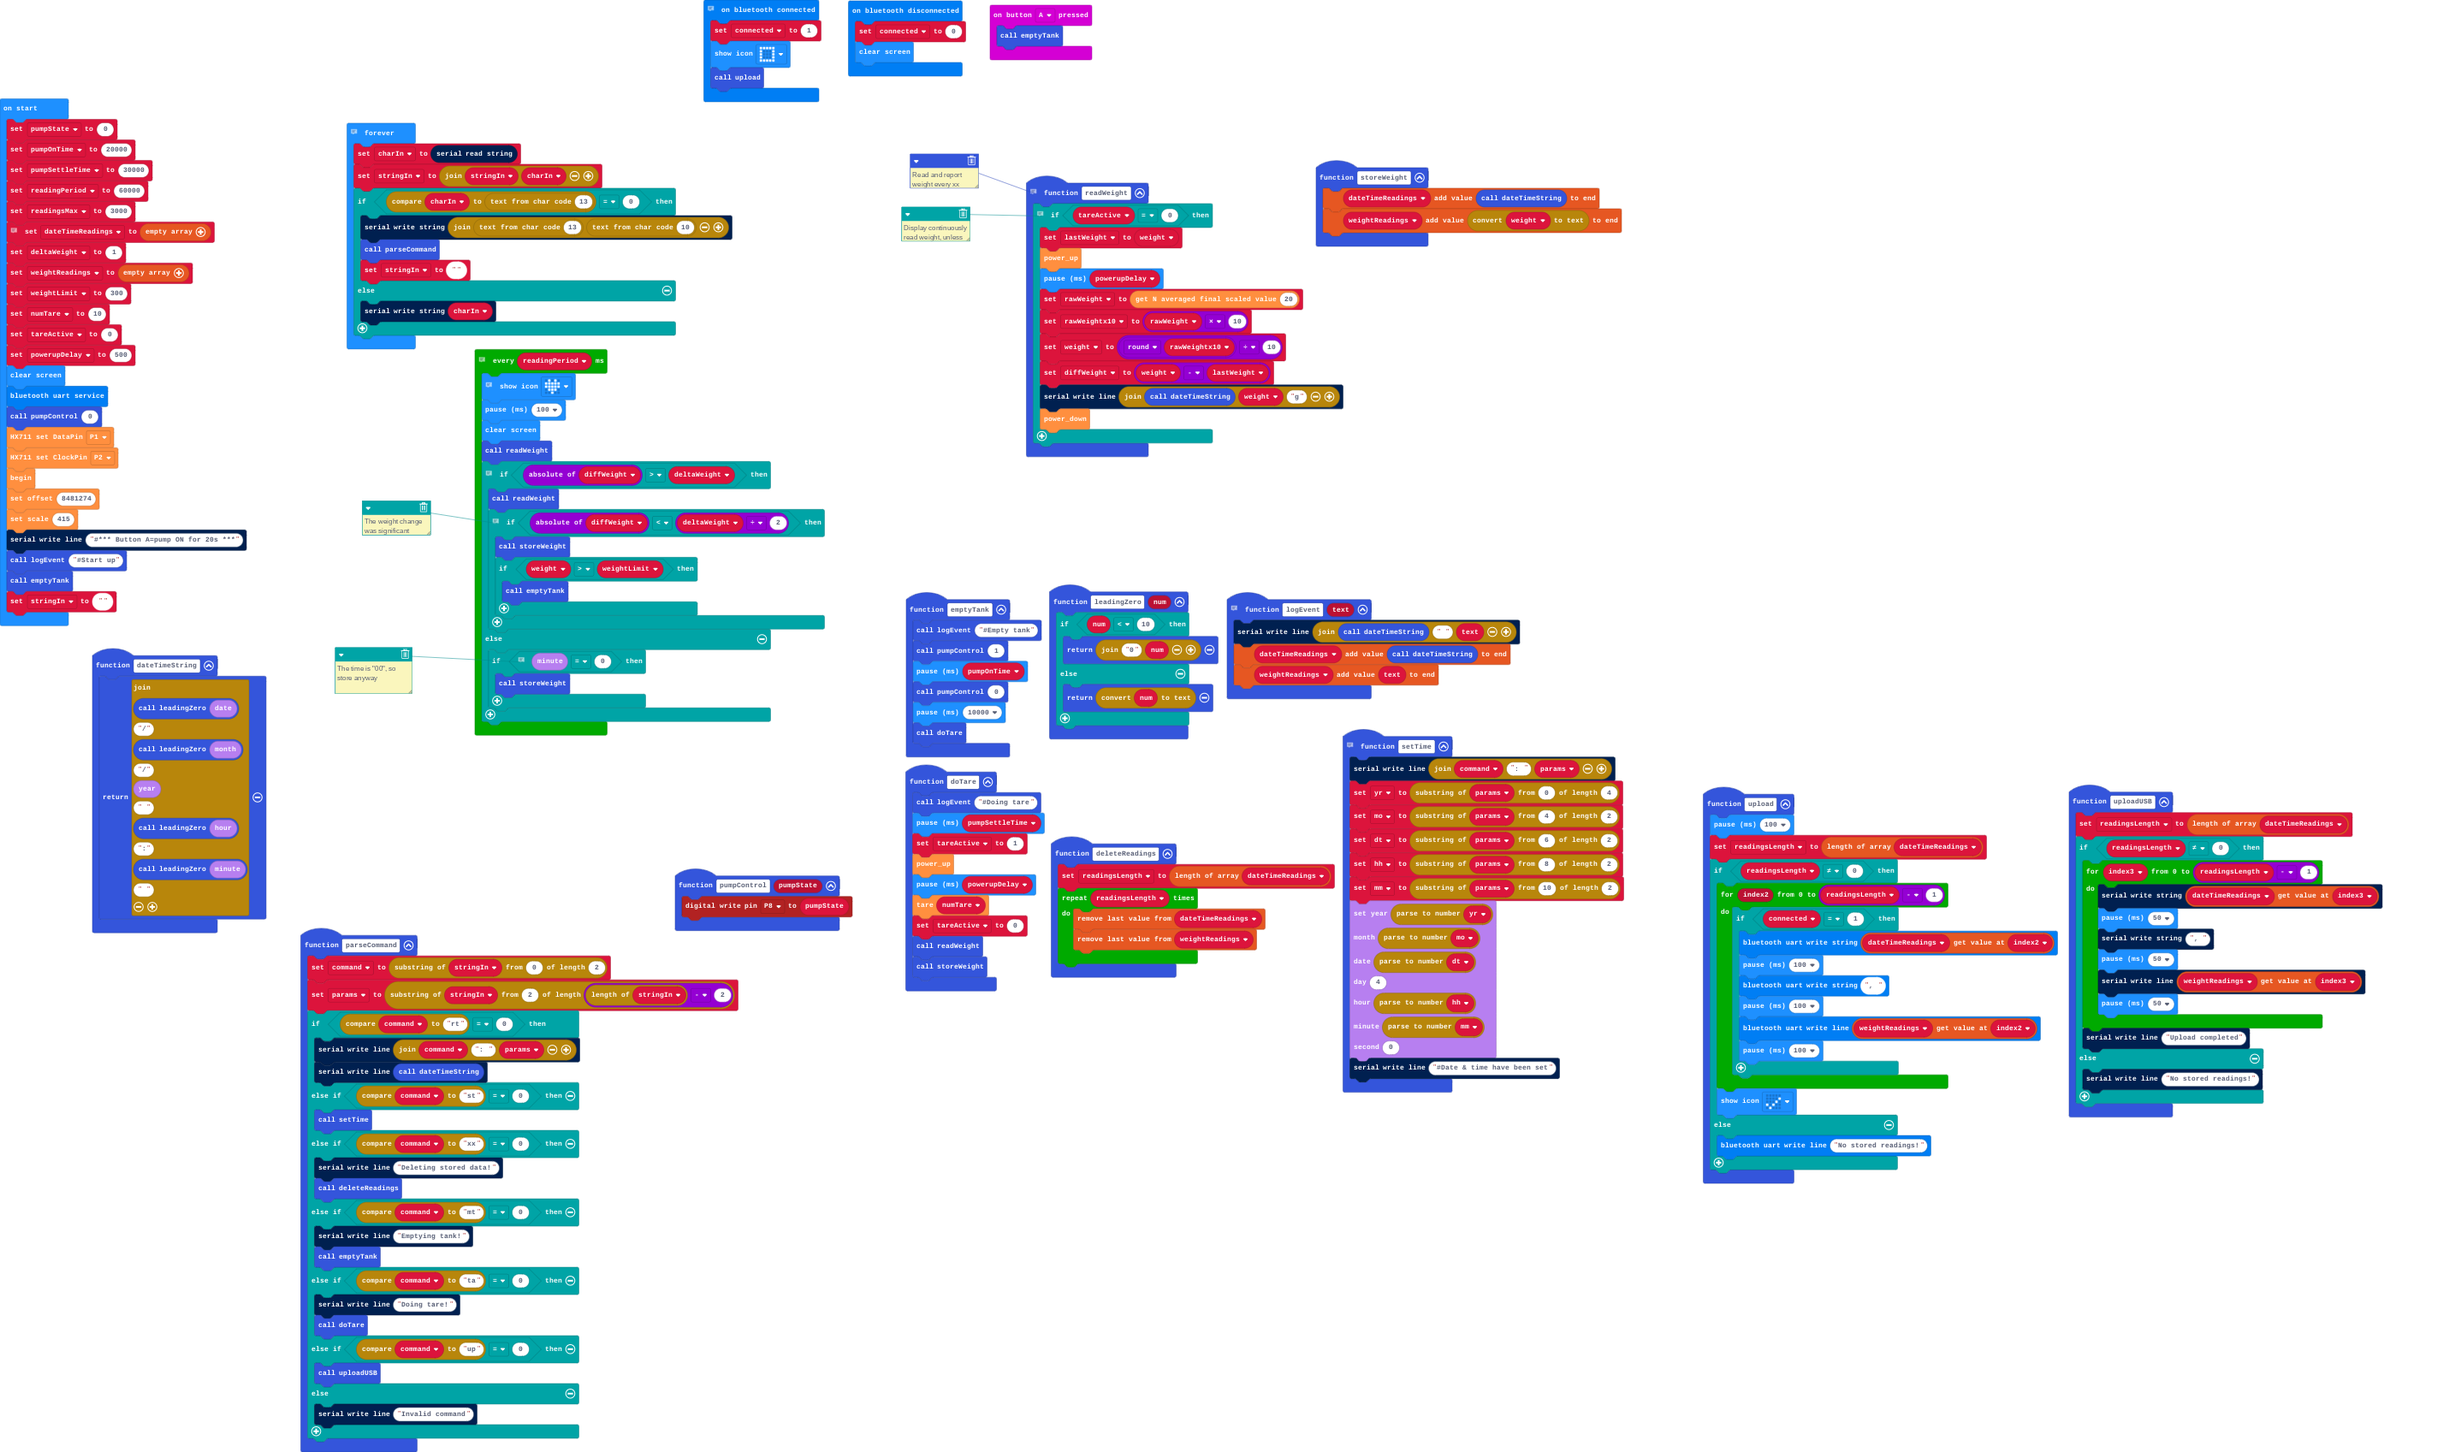
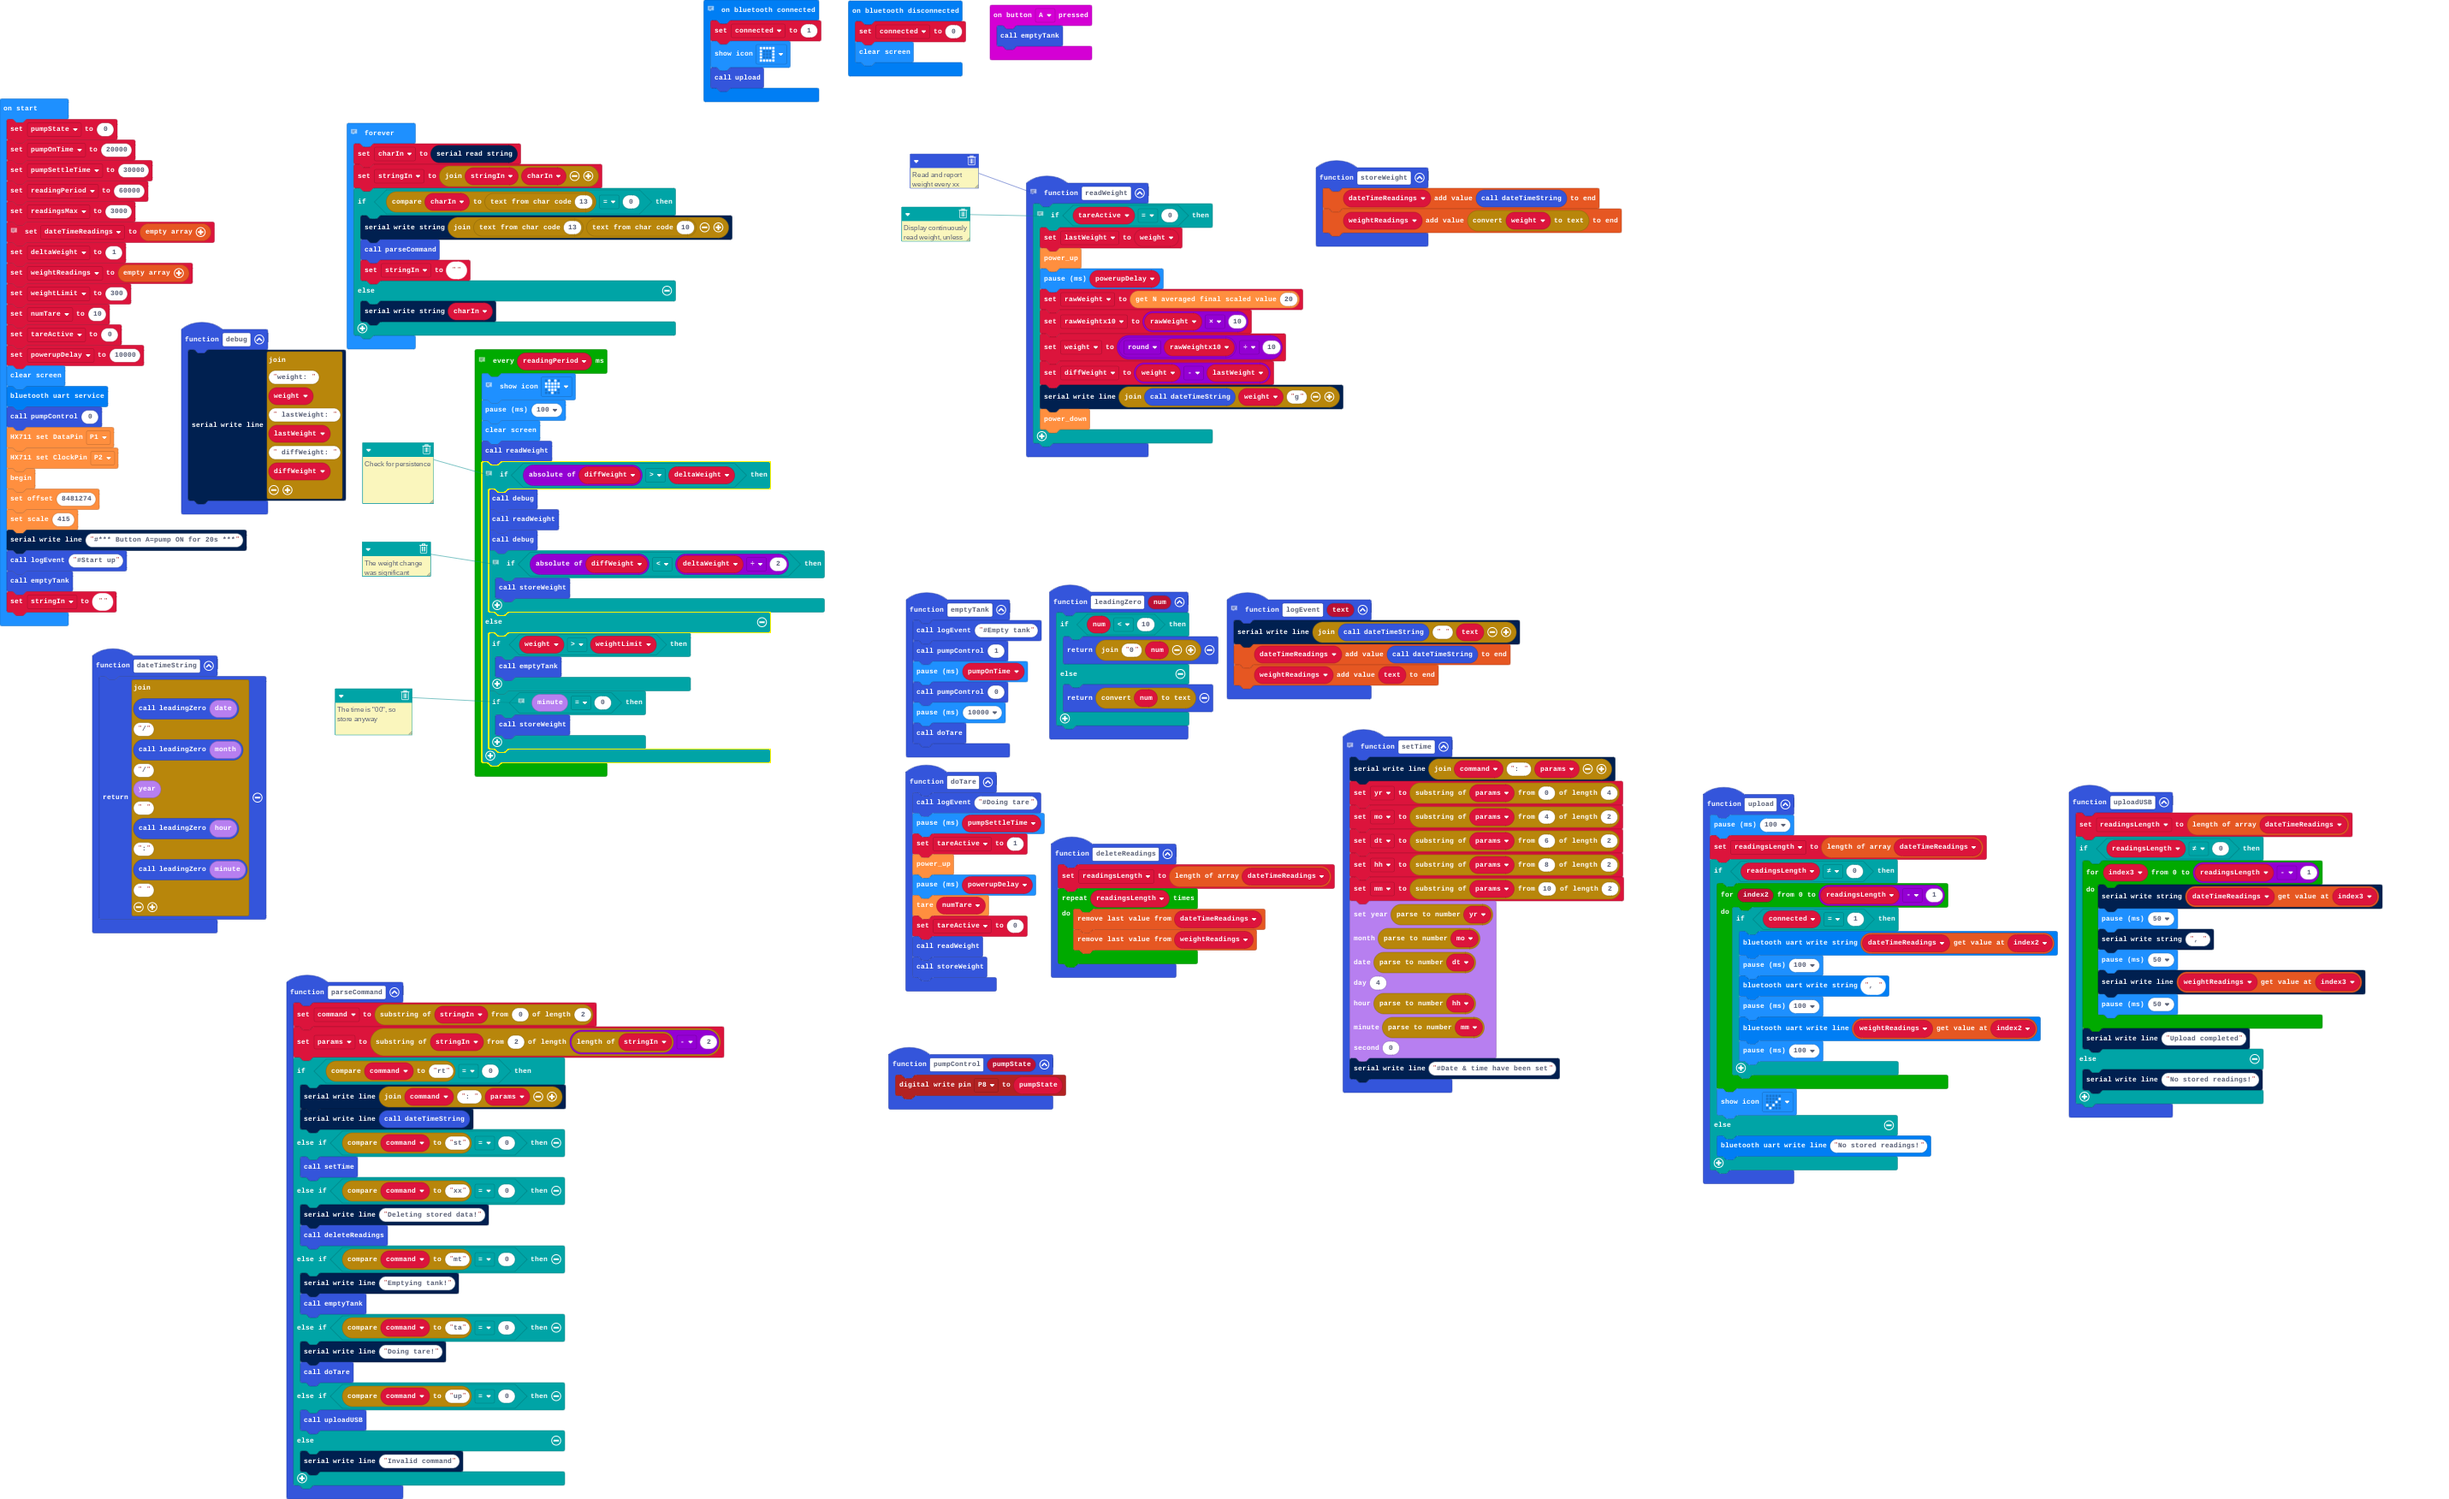
Further loop debug

diff --git a/main.ts b/main.ts
@@ -77,6 +77,9 @@ function readWeight () {
         HX711.power_down()
     }
 }
+function debug () {
+    serial.writeLine("weight: " + weight + " lastWeight: " + lastWeight + " diffWeight: " + diffWeight)
+}
 function storeWeight () {
     dateTimeReadings.push(dateTimeString())
     weightReadings.push(convertToText(weight))
@@ -187,7 +190,7 @@ weightReadings = []
 let weightLimit = 300
 numTare = 10
 tareActive = 0
-powerupDelay = 500
+powerupDelay = 10000
 basic.clearScreen()
 bluetooth.startUartService()
 pumpControl(0)
@@ -219,17 +222,19 @@ loops.everyInterval(readingPeriod, function () {
     basic.pause(100)
     basic.clearScreen()
     readWeight()
-    // Only store significant weight change, and check persistence
+    // Check for persistence
     if (Math.abs(diffWeight) > deltaWeight) {
+        debug()
         readWeight()
+        debug()
         // The weight change was significant
         if (Math.abs(diffWeight) < deltaWeight / 2) {
             storeWeight()
-            if (weight > weightLimit) {
-                emptyTank()
-            }
         }
     } else {
+        if (weight > weightLimit) {
+            emptyTank()
+        }
         // The time is "00", so store anyway
         if (DS3231.minute() == 0) {
             storeWeight()
